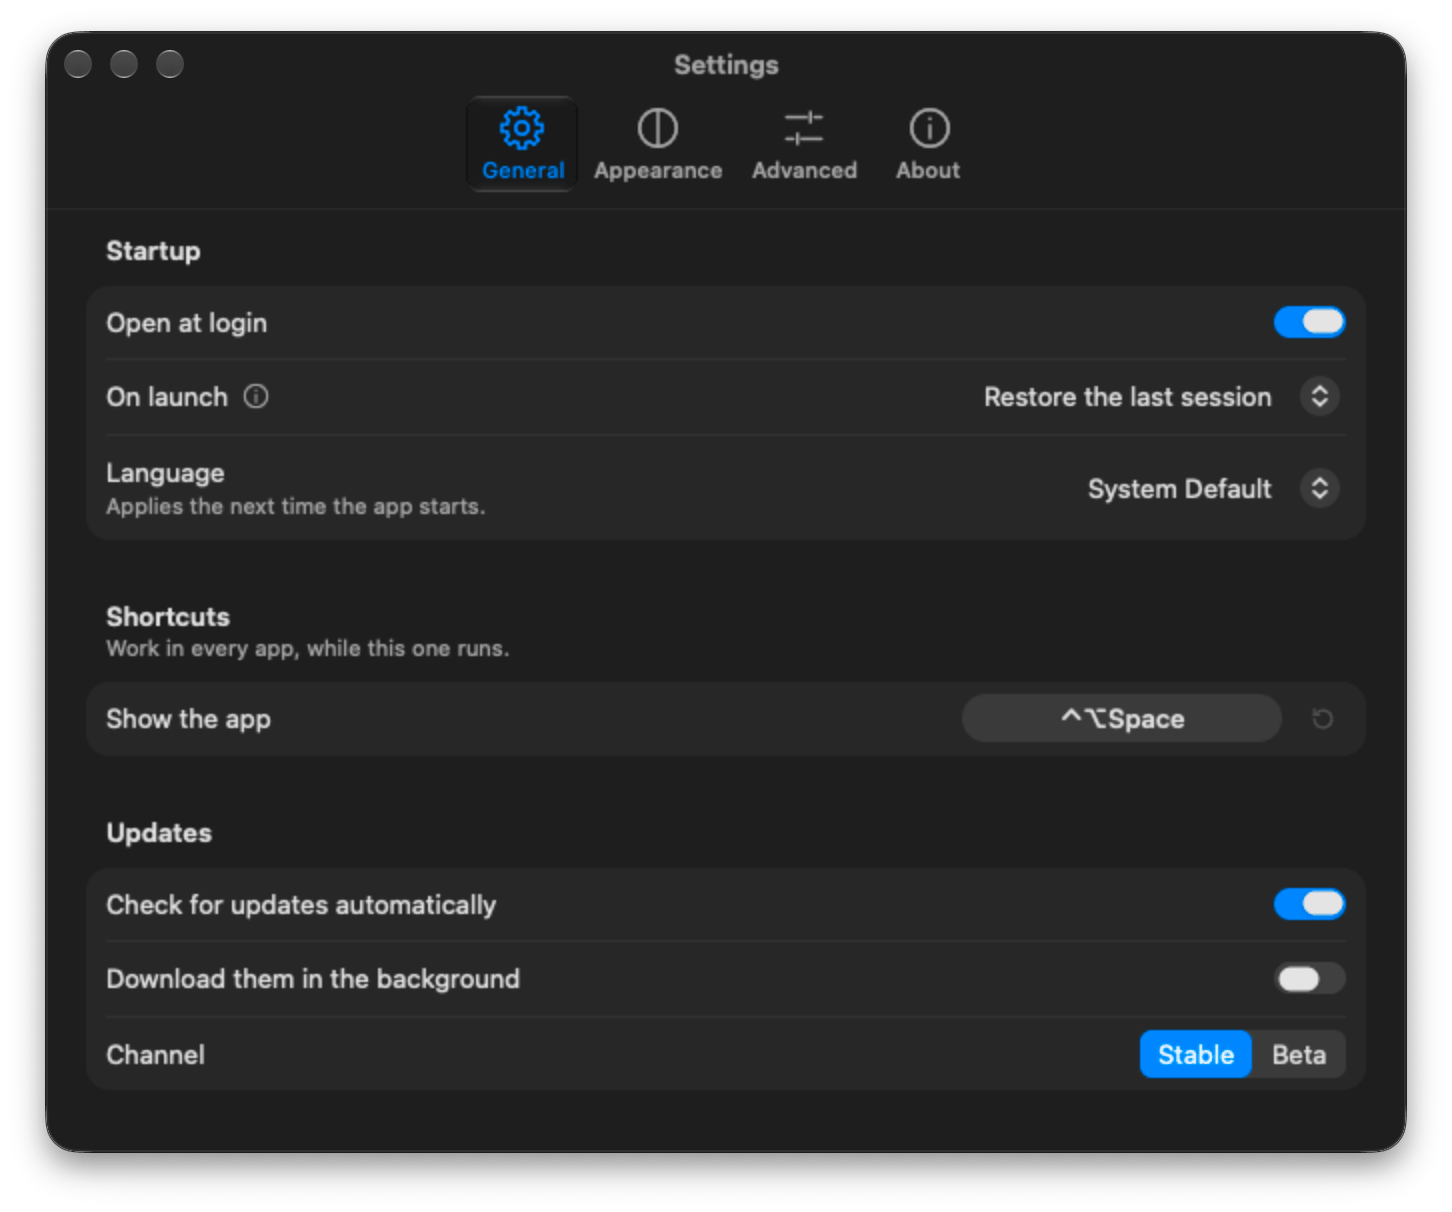
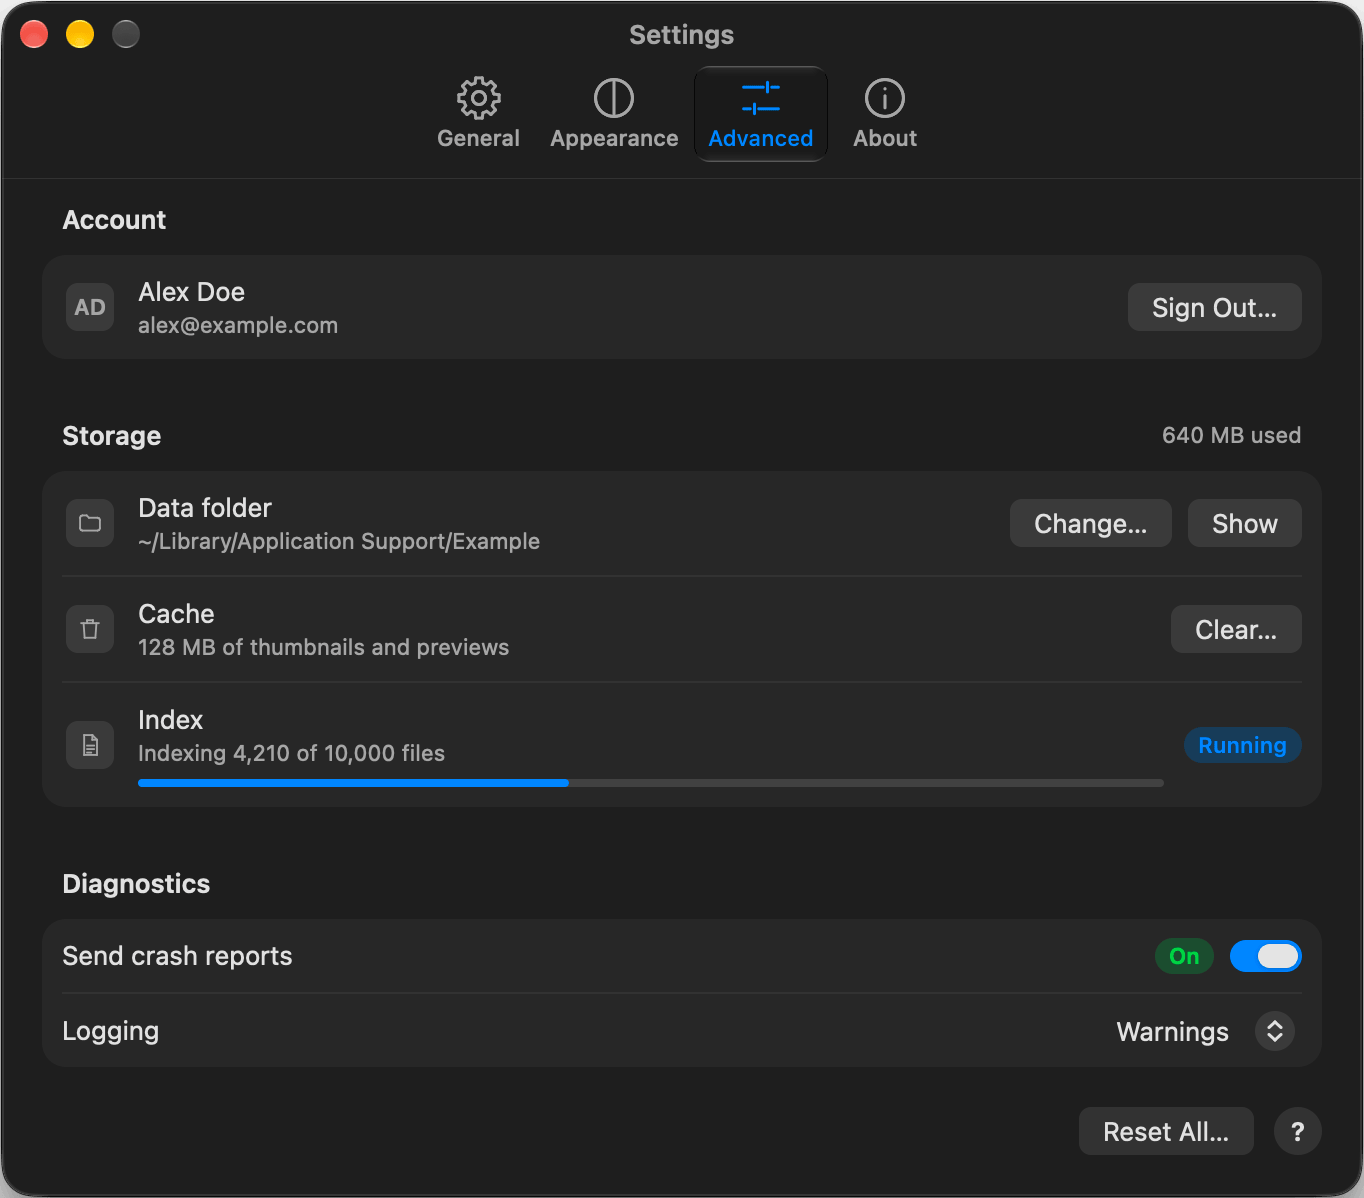
docs: the user's window shot, why nimbo from our own numbers

diff --git a/readme.md b/readme.md
@@ -25,7 +25,7 @@
 - 📦 **13 crates on macOS, 4 on Windows, 2 on Linux**: GTK is loaded at run time, nothing to link
 
 <div align="center">
-  <img src="docs/settings.png" alt="the settings example in a macOS window" width="700" />
+  <img src="docs/settings.png" alt="the settings example on macOS" width="700" />
 </div>
 
 ## 🧭 Why nimbo
@@ -33,23 +33,13 @@
 I wanted a small, fast dictation app, and every stack I tried for it fell short:
 
 - **Tauri** (Handy, the app I used): a webview, **565 MB** at idle.
-- **egui and GPUI**: 337 to 911 crates, a GPU surface and a text stack of their own, and still not the macOS look.
+- **egui**: 226–391 crates, an 18 MB binary, its own text that never matched CoreText.
+- **GPUI**: 695–911 crates, and it built only with a vendored patch.
 - **AppKit alone**: **13 MB** at idle, but macOS only.
 - **Native controls on each OS**: every feature written three times, 79% of the code glue.
-- **Drawing the UI myself over the OS's window and text**: right look, small and fast; on the CPU instead of Vulkan, **5 MB** of memory instead of 55–148 MB.
+- **Drawing the UI myself over the OS's window and text**: a window on screen in under 200 ms (Zed: 299 ms), and on the CPU **5 MB** of memory where Vulkan took 55–148 MB.
 
-nimbo is that last approach, made into a library.
-
-| | Crates | Clean build | Binary | Accessibility |
-|---|---:|---:|---:|---|
-| GPUI | 391 | 56 s | 5.0 MiB | AccessKit |
-| Slint | 302 | 42 s | 14.7 MiB | AccessKit |
-| Tauri | 204 | 36 s | 8.0 MiB + webview | the webview's |
-| egui | 156 | 27 s | 12.0 MiB | AccessKit |
-| iced | 140 | 22 s | 9.9 MiB | none yet |
-| **nimbo** | **13** | **10 s** | **1.1 MiB** | none yet |
-
-The others: a small todo app, clean release build on an M4 Pro, from the [RCN study](https://github.com/GoldStrikeArch/rust-gui-desktop-ecosystem-state/blob/main/report/10-empirical-results.md) (2026-07-07); nimbo: the `counter` example on an M2, measured here (2026-10-25), crates on macOS. What nimbo doesn't have yet: accessibility, rich text, mobile and web.
+nimbo is that last approach as a library: **13 crates**, a **1.1 MB** binary, a clean build in **10 s**.
 
 ## 🤖 How it's made
 
